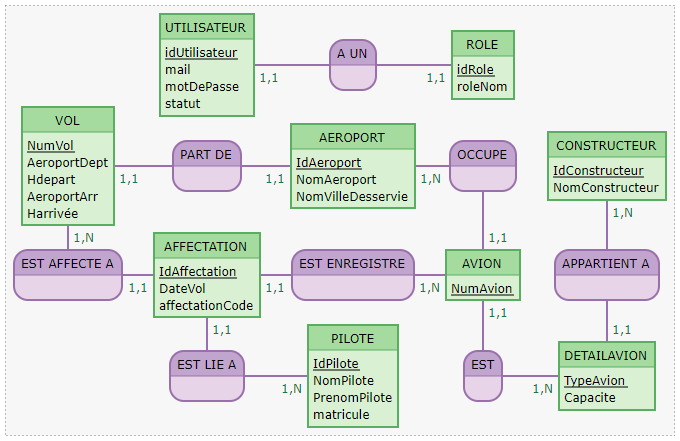
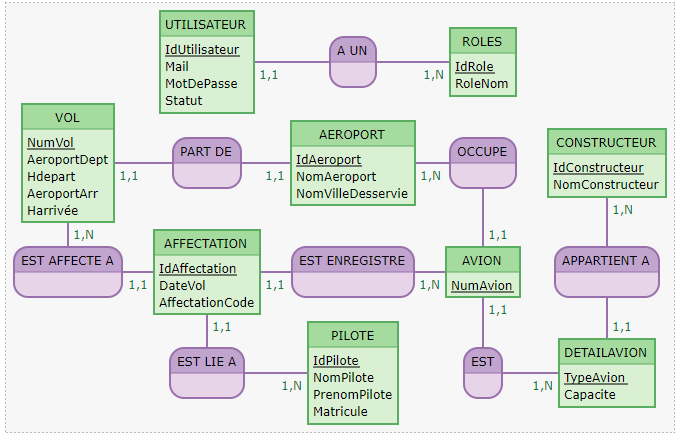
add BDD Aerosoft projet SQL

diff --git a/Conception/Aerosoft-projet-MLD.html b/Conception/Aerosoft-projet-MLD.html
@@ -11,17 +11,17 @@
 <div id='mld'>
 <div>
   <span class='relation'>UTILISATEUR</span> (
-    <span class='primary'>idUtilisateur</span>,
-    <span class='normal'>mail</span>,
-    <span class='normal'>motDePasse</span>,
-    <span class='normal'>statut</span>,
-    <span class='foreign'>idRole</span>
+    <span class='primary'>IdUtilisateur</span>,
+    <span class='normal'>Mail</span>,
+    <span class='normal'>MotDePasse</span>,
+    <span class='normal'>Statut</span>,
+    <span class='foreign'>IdRole</span>
   )
 </div>
 <div>
-  <span class='relation'>ROLE</span> (
-    <span class='primary'>idRole</span>,
-    <span class='normal'>roleNom</span>
+  <span class='relation'>ROLES</span> (
+    <span class='primary'>IdRole</span>,
+    <span class='normal'>RoleNom</span>
   )
 </div>
 <div>
@@ -51,7 +51,7 @@
   <span class='relation'>AFFECTATION</span> (
     <span class='primary'>IdAffectation</span>,
     <span class='normal'>DateVol</span>,
-    <span class='normal'>affectationCode</span>,
+    <span class='normal'>AffectationCode</span>,
     <span class='foreign'>NumAvion</span>,
     <span class='foreign'>NumVol</span>,
     <span class='foreign'>IdPilote</span>
@@ -69,7 +69,7 @@
     <span class='primary'>IdPilote</span>,
     <span class='normal'>NomPilote</span>,
     <span class='normal'>PrenomPilote</span>,
-    <span class='normal'>matricule</span>
+    <span class='normal'>Matricule</span>
   )
 </div>
 <div>

diff --git a/Conception/Aerosoft-projet_data_dict.md b/Conception/Aerosoft-projet_data_dict.md
@@ -4,18 +4,18 @@
 
 | Nom | Description | Type | Commentaire |
 |---|---|---|---|---|
-| idUtilisateur | Identifiant de l'utilisateur | Int | Clé primaire |
+| IdUtilisateur | Identifiant de l'utilisateur | Int | Clé primaire |
 | Mail | E-mail de l'utilisateur | Char |   |
-| motDePasse | Mot de passe de l'utilisateur | Char |   |
+| MotDePasse | Mot de passe de l'utilisateur | Char |   |
 | Statut | Statut de l'utlisateur | Bool |   |
-| idRole | Identifiant de rôle | Int | Clé étrangère |
+| IdRole | Identifiant de rôle | Int | Clé étrangère |
 
-## ROLE
+## ROLES
 
 | Nom | Description | Type | Commentaire |
 |---|---|---|---|---|
-| idRole | Identifiant du rôle | Int | Clé primaire |
-| roleNom | Intitulé du rôle | Char | |
+| IdRole | Identifiant du rôle | Int | Clé primaire |
+| RoleNom | Intitulé du rôle | Char | |
 
 ## VOL
 
@@ -26,7 +26,7 @@
 | Hdepart | Heure de départ | Time |   |
 | AeroportArr | Code de l'aéroport d'arrivée | Char |   |
 | Harrivée | Heure d'arrivée | Time |   |
-| idAeroport | Identifiant de l'aéroport | Char | Clé étrangère |
+| IdAeroport | Identifiant de l'aéroport | Char | Clé étrangère |
 
 ## AEROPORT
 
